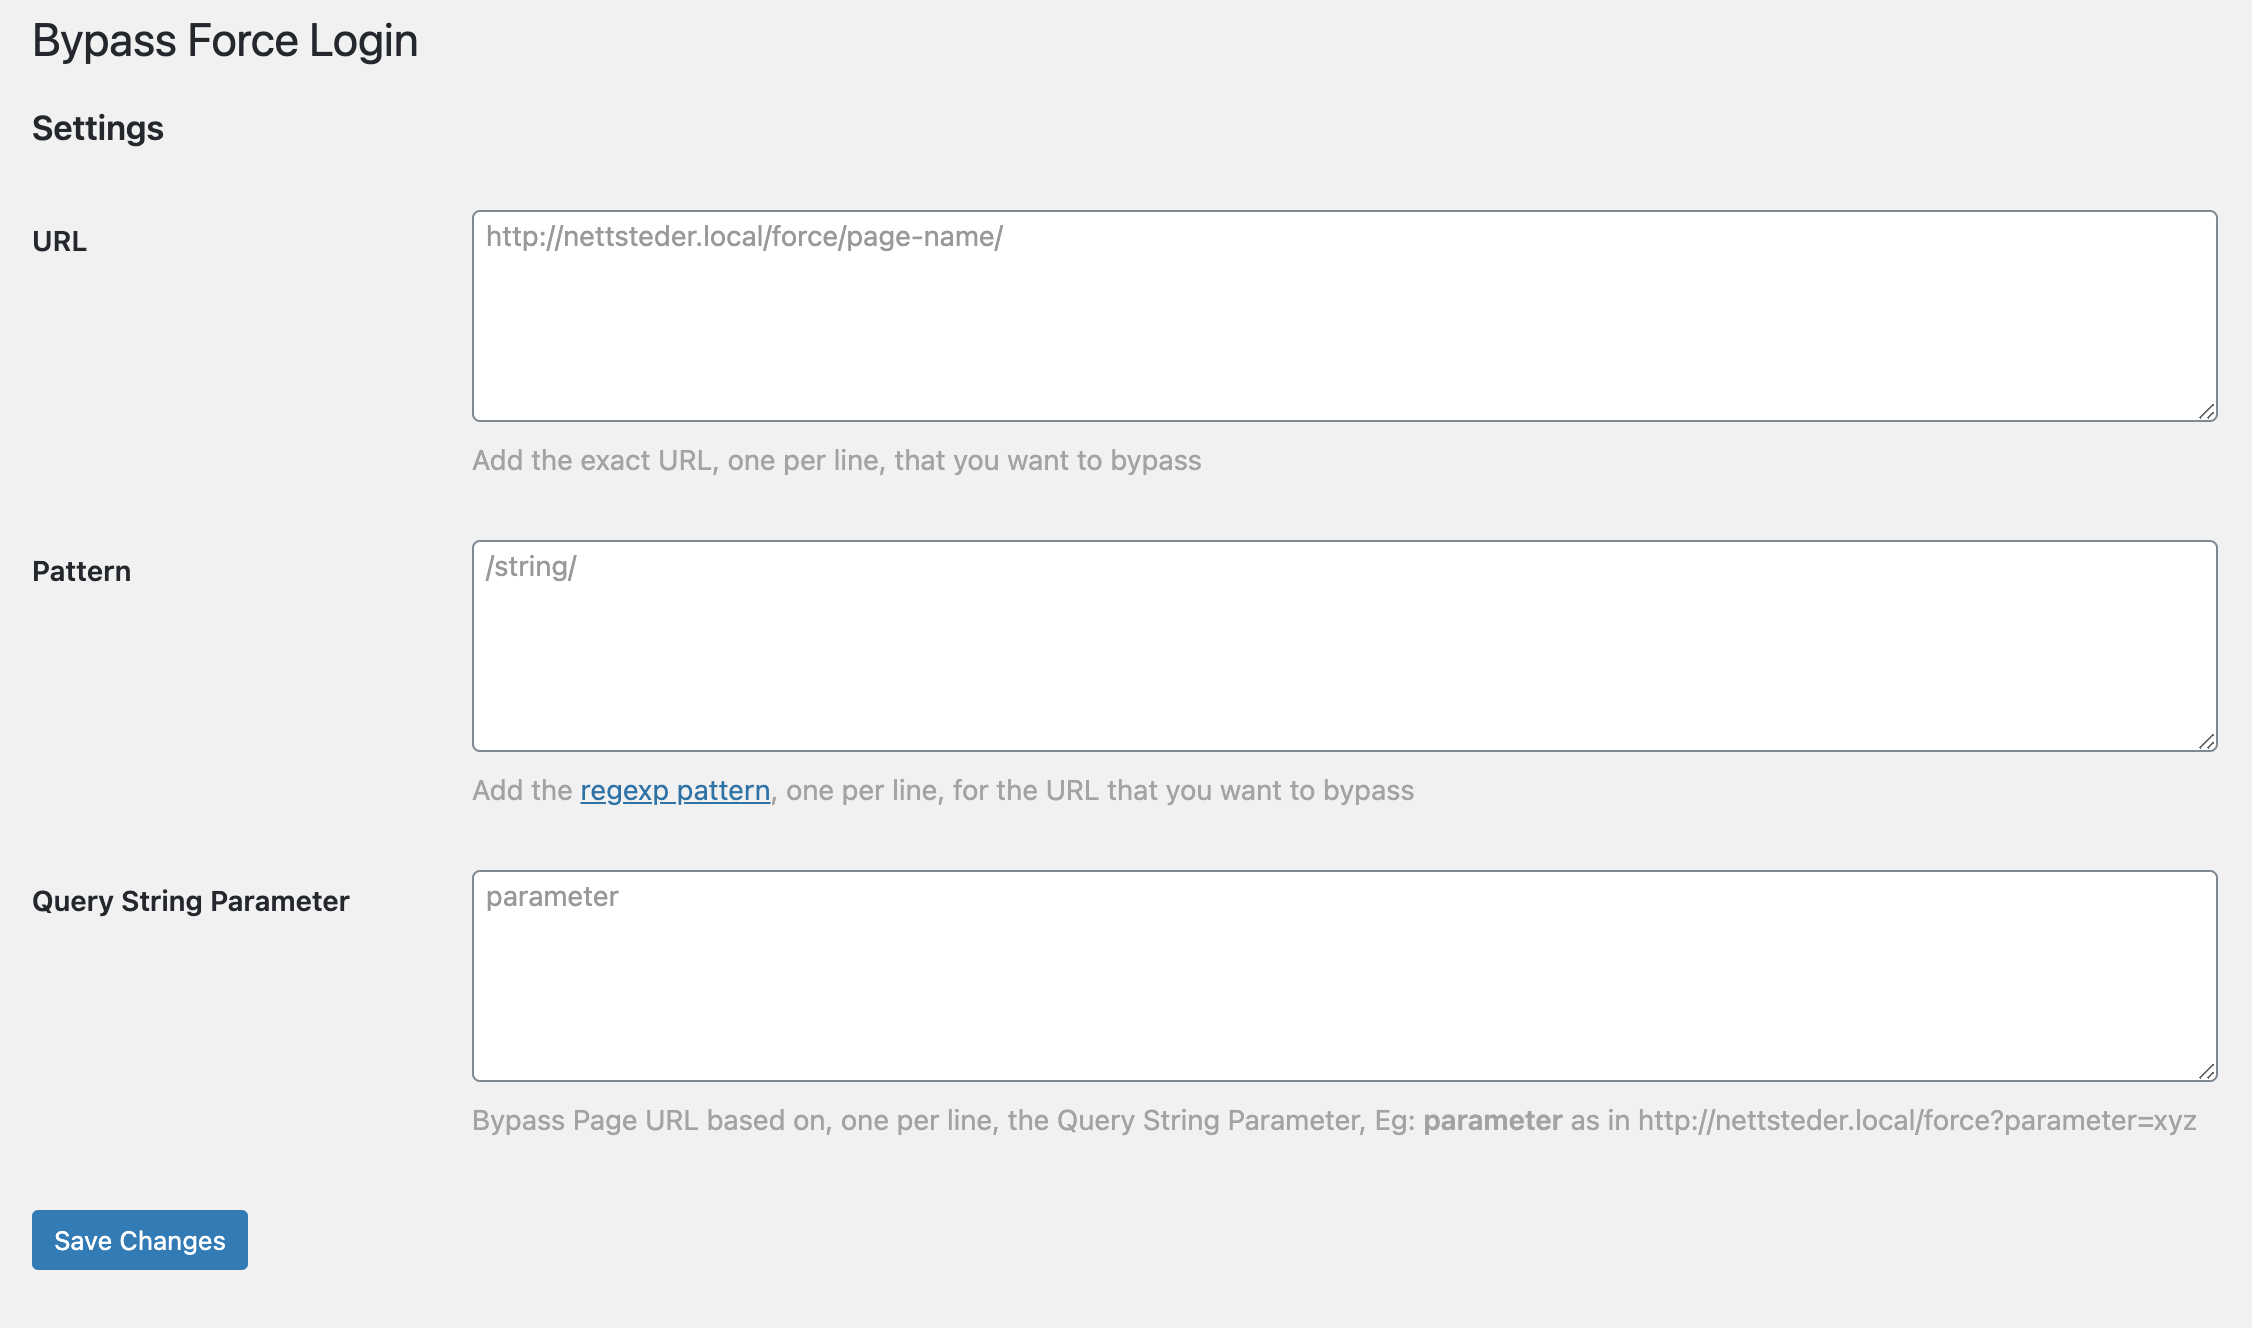
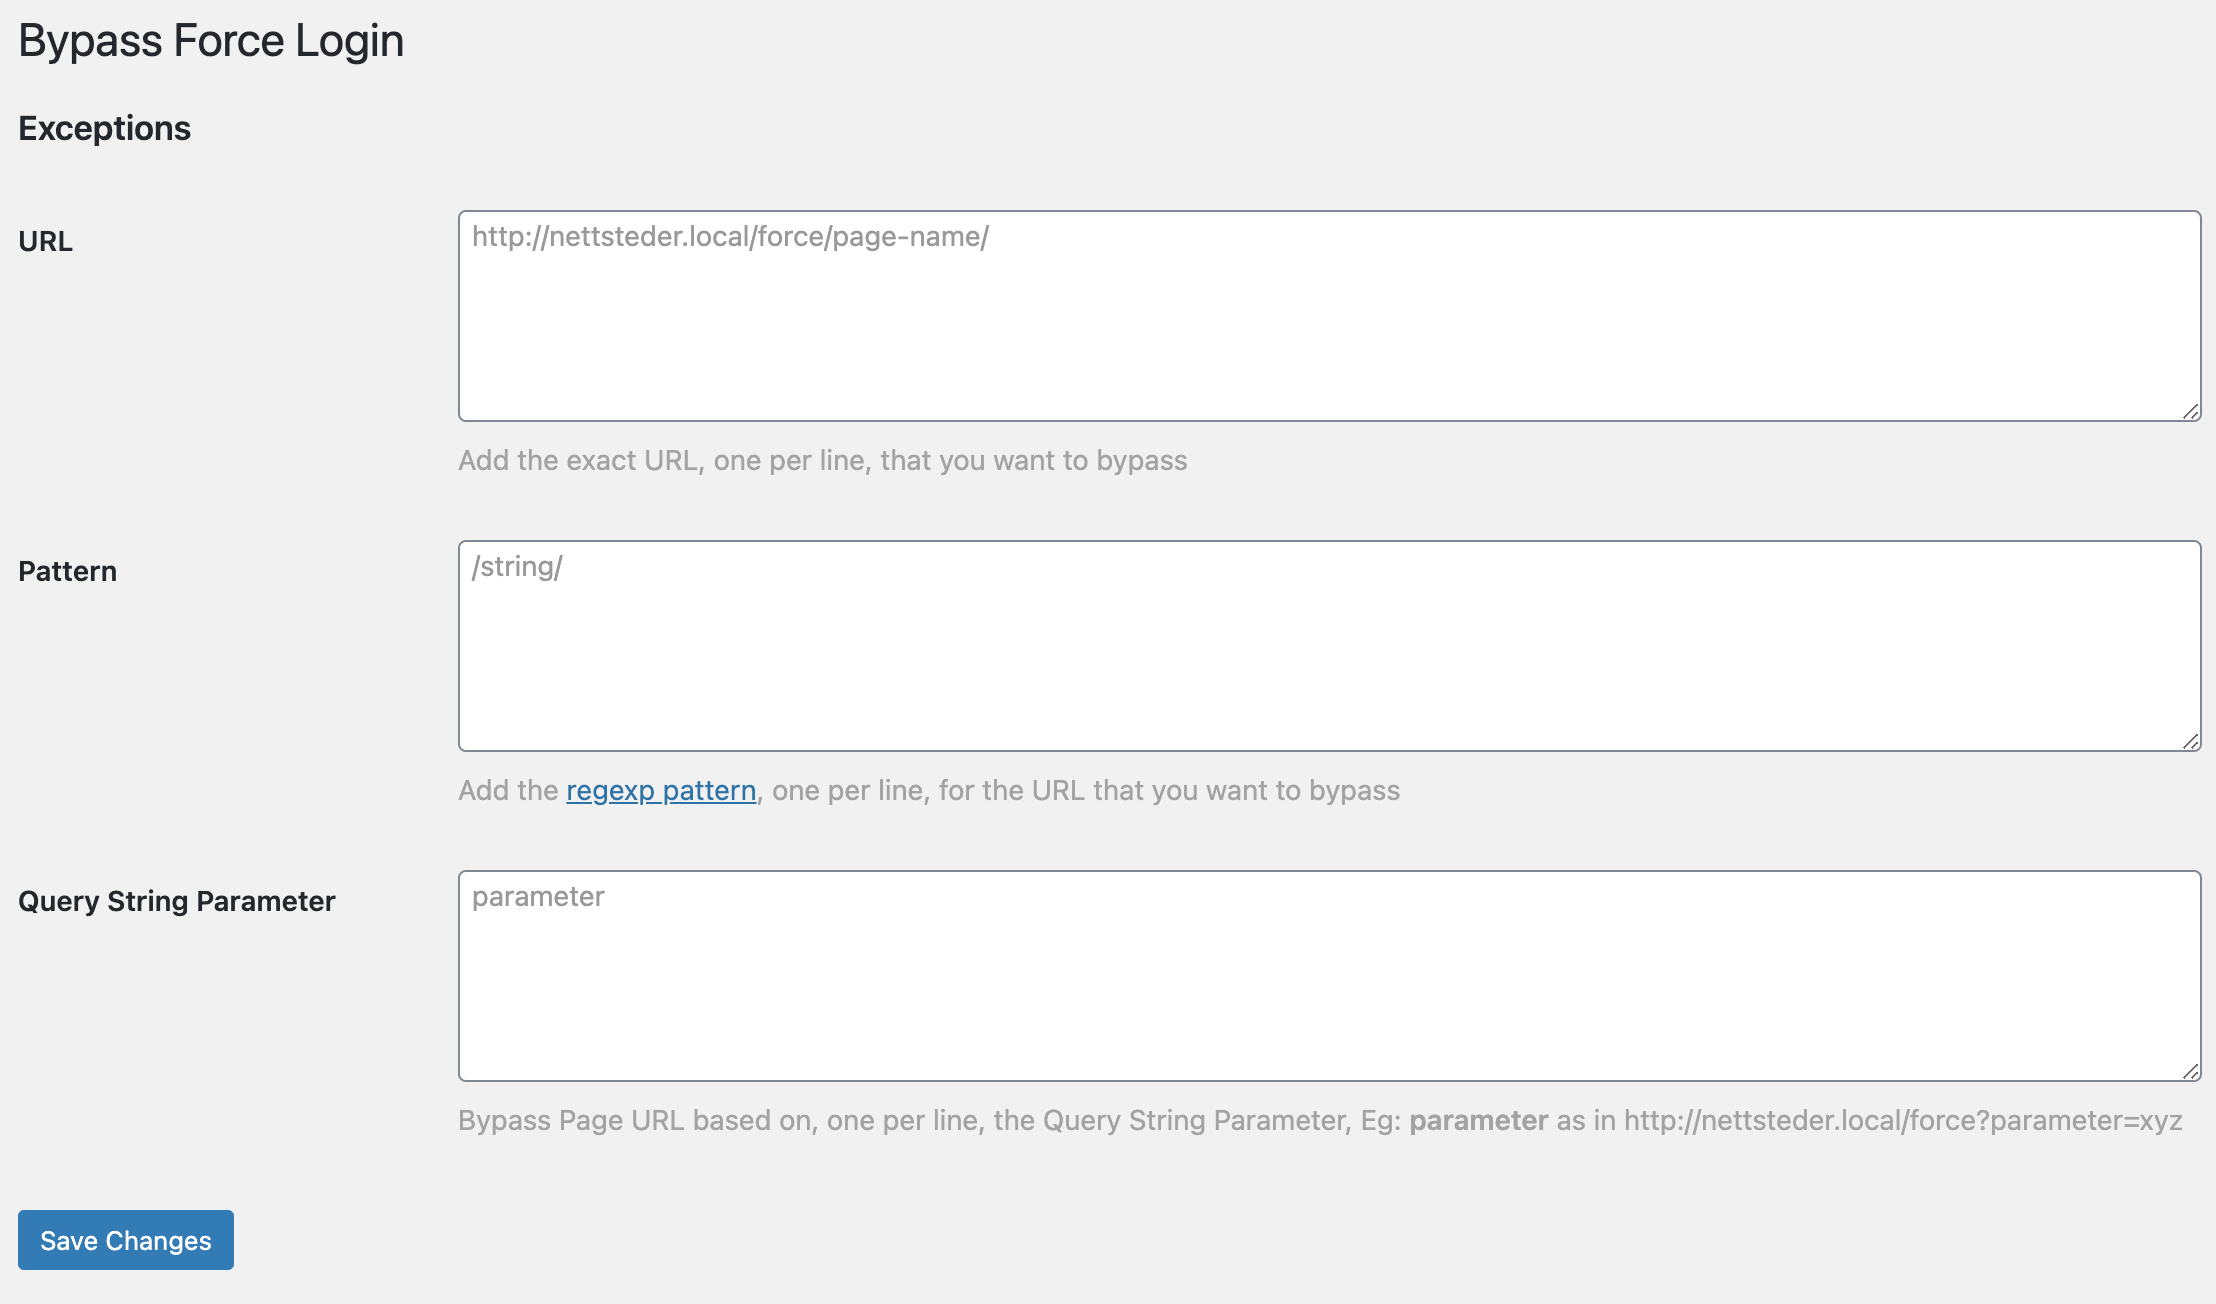
update assets

diff --git a/src/Settings.php b/src/Settings.php
@@ -52,7 +52,7 @@ class Settings {
 
 		add_settings_section(
 			'bypass_force_login_setting_section', // id
-			'Settings', // title
+			__( 'Exceptions', 'bypass-wp-force-login' ), // title
 			[ $this, 'bypass_force_login_section_info' ], // callback
 			'bypass-force-login-admin' // page
 		);

diff --git a/README.md b/README.md
@@ -1,3 +1,27 @@
 # Bypass [Force Login](https://wordpress.org/plugins/wp-force-login/)
 
 Easily add [exceptions](https://wordpress.org/plugins/wp-force-login/#2.%20how%20can%20i%20add%20exceptions%20for%20certain%20pages%20or%20posts%3F) for the [Force Login](https://wordpress.org/plugins/wp-force-login/) plugin
+
+<img src="assets/settings.png">
+
+
+## Prerequisite
+
+Install and activate [Force Login](https://wordpress.org/plugins/wp-force-login/).
+
+## Installation
+
+- [Download the plugin](https://github.com/soderlind/bypass-wp-force-login/archive/master.zip)
+- Install and activate the plugin.
+- Add the `[es6demo]` shortcode to a page.
+- Click on the `+` button to increment the number.
+
+## Copyright and License
+
+Bypass Force Login is copyright 2021 Per Soderlind
+
+Bypass Force Login is free software: you can redistribute it and/or modify it under the terms of the GNU General Public License as published by the Free Software Foundation, either version 2 of the License, or (at your option) any later version.
+
+Bypass Force Login is distributed in the hope that it will be useful, but WITHOUT ANY WARRANTY; without even the implied warranty of MERCHANTABILITY or FITNESS FOR A PARTICULAR PURPOSE. See the GNU General Public License for more details.
+
+You should have received a copy of the GNU Lesser General Public License along with the Extension. If not, see http://www.gnu.org/licenses/.
